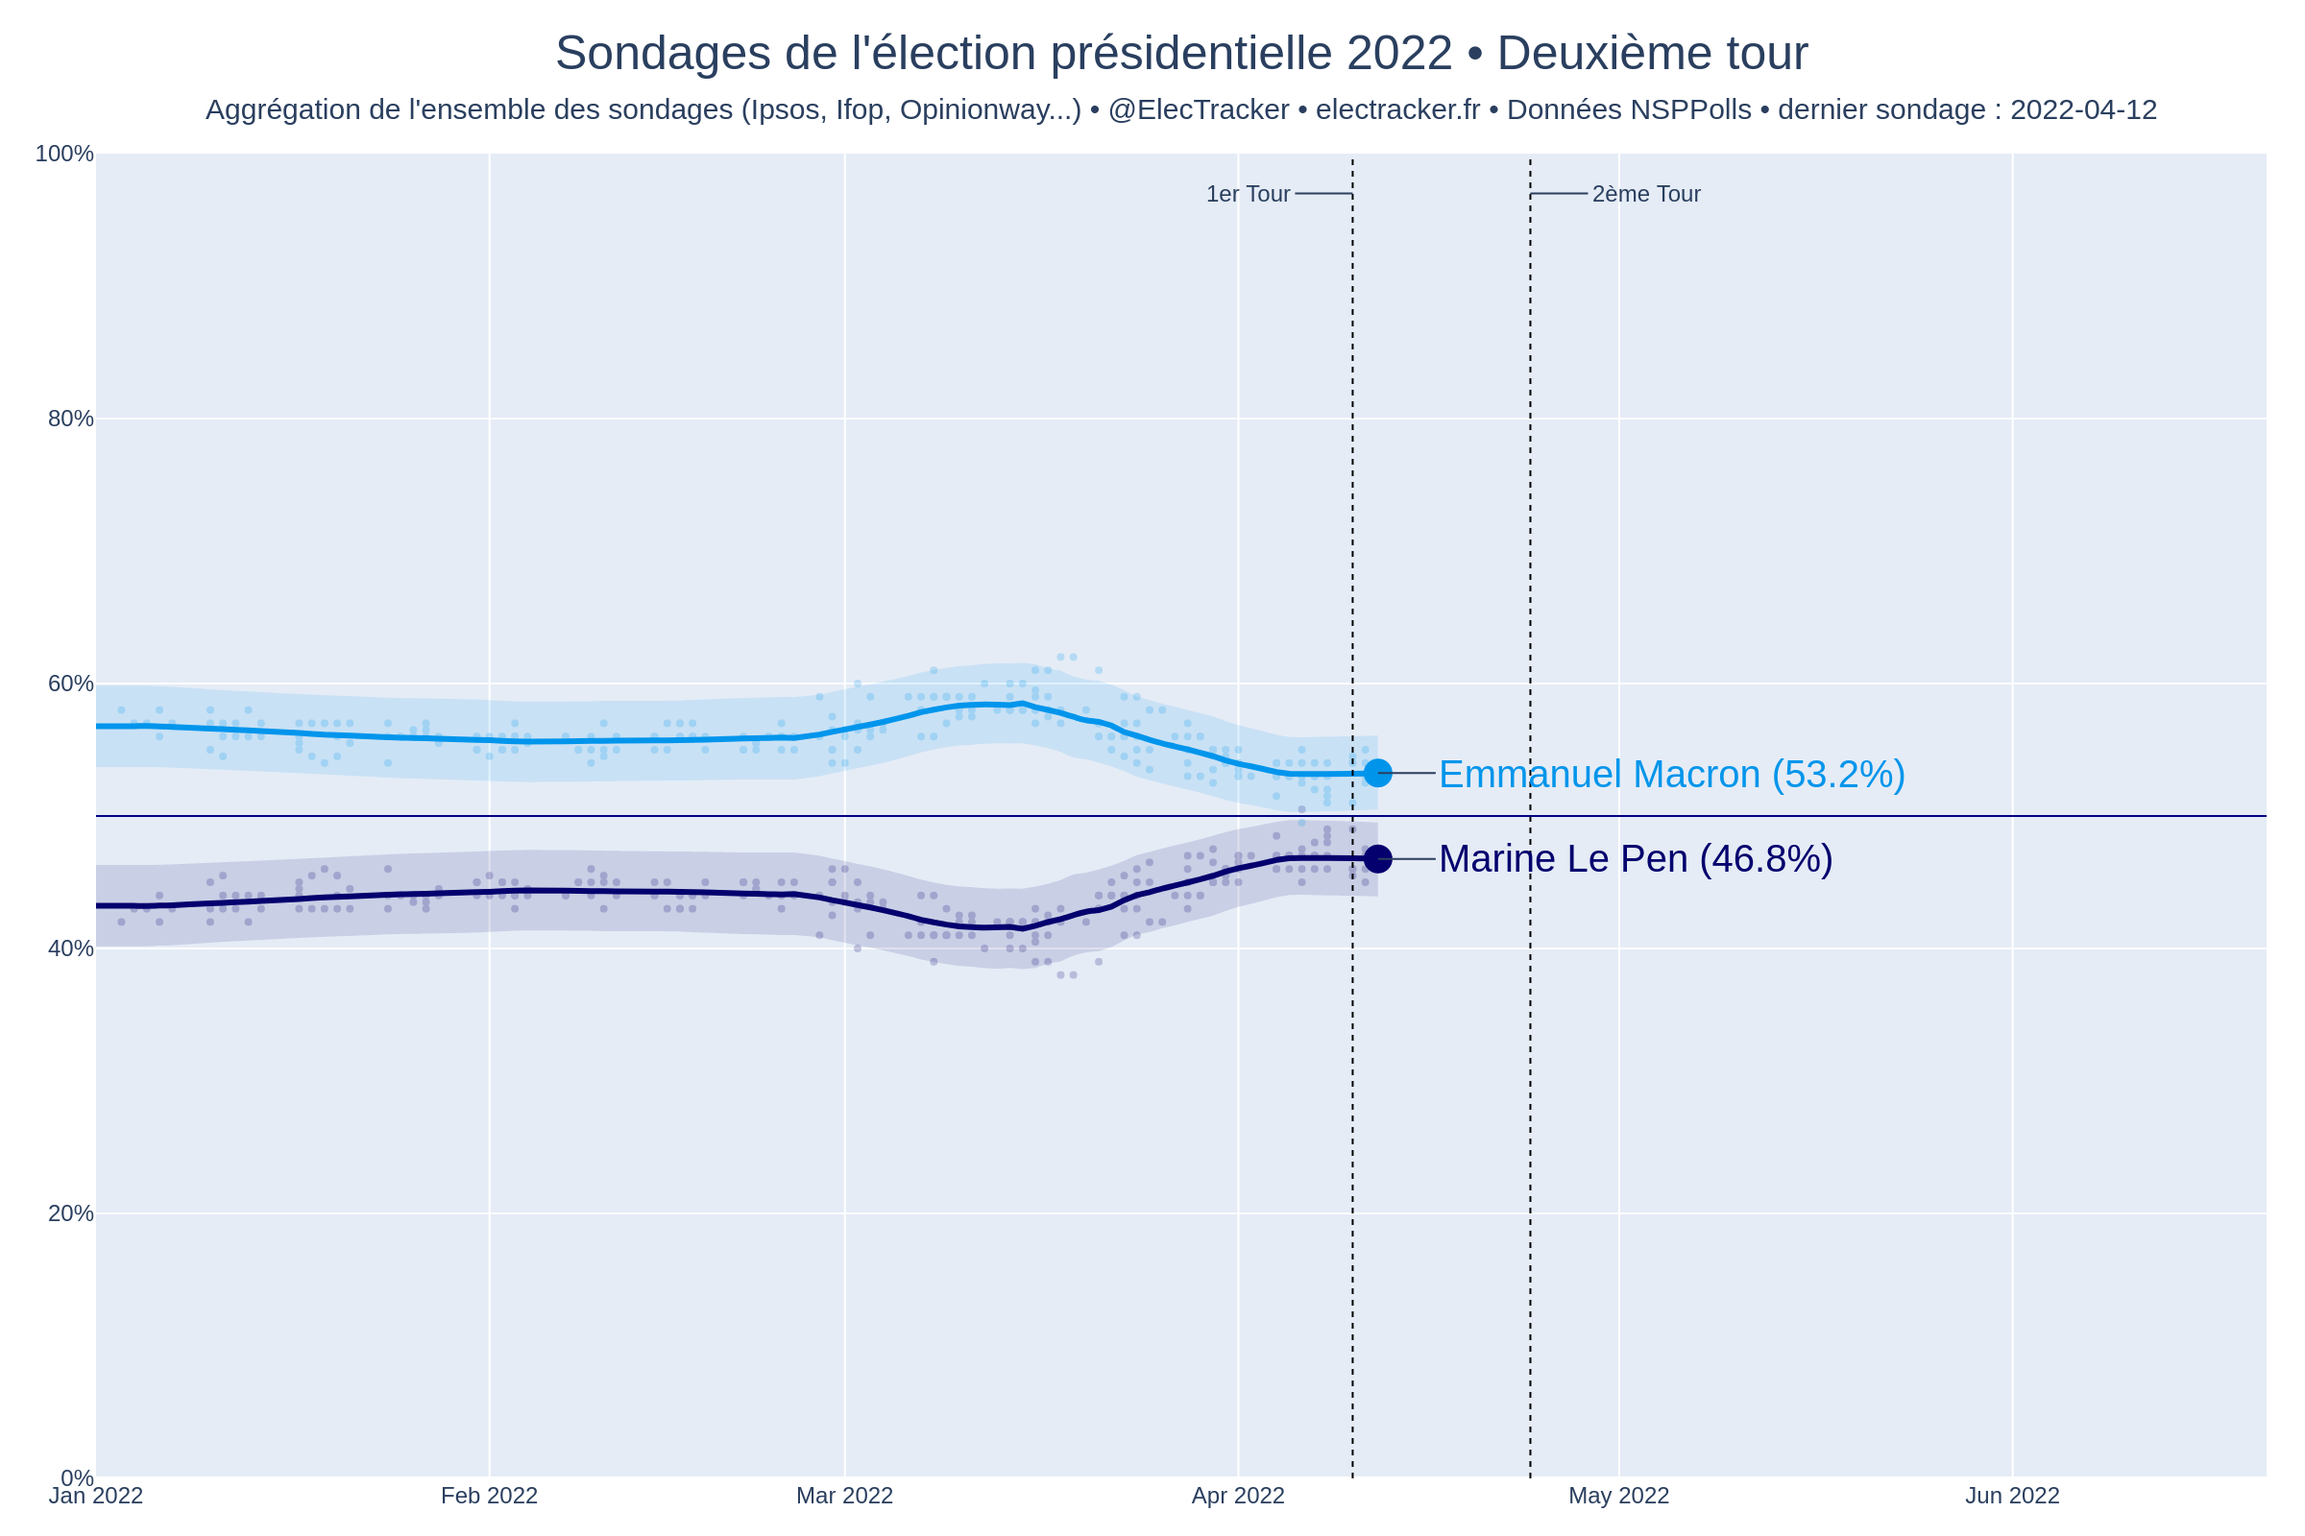
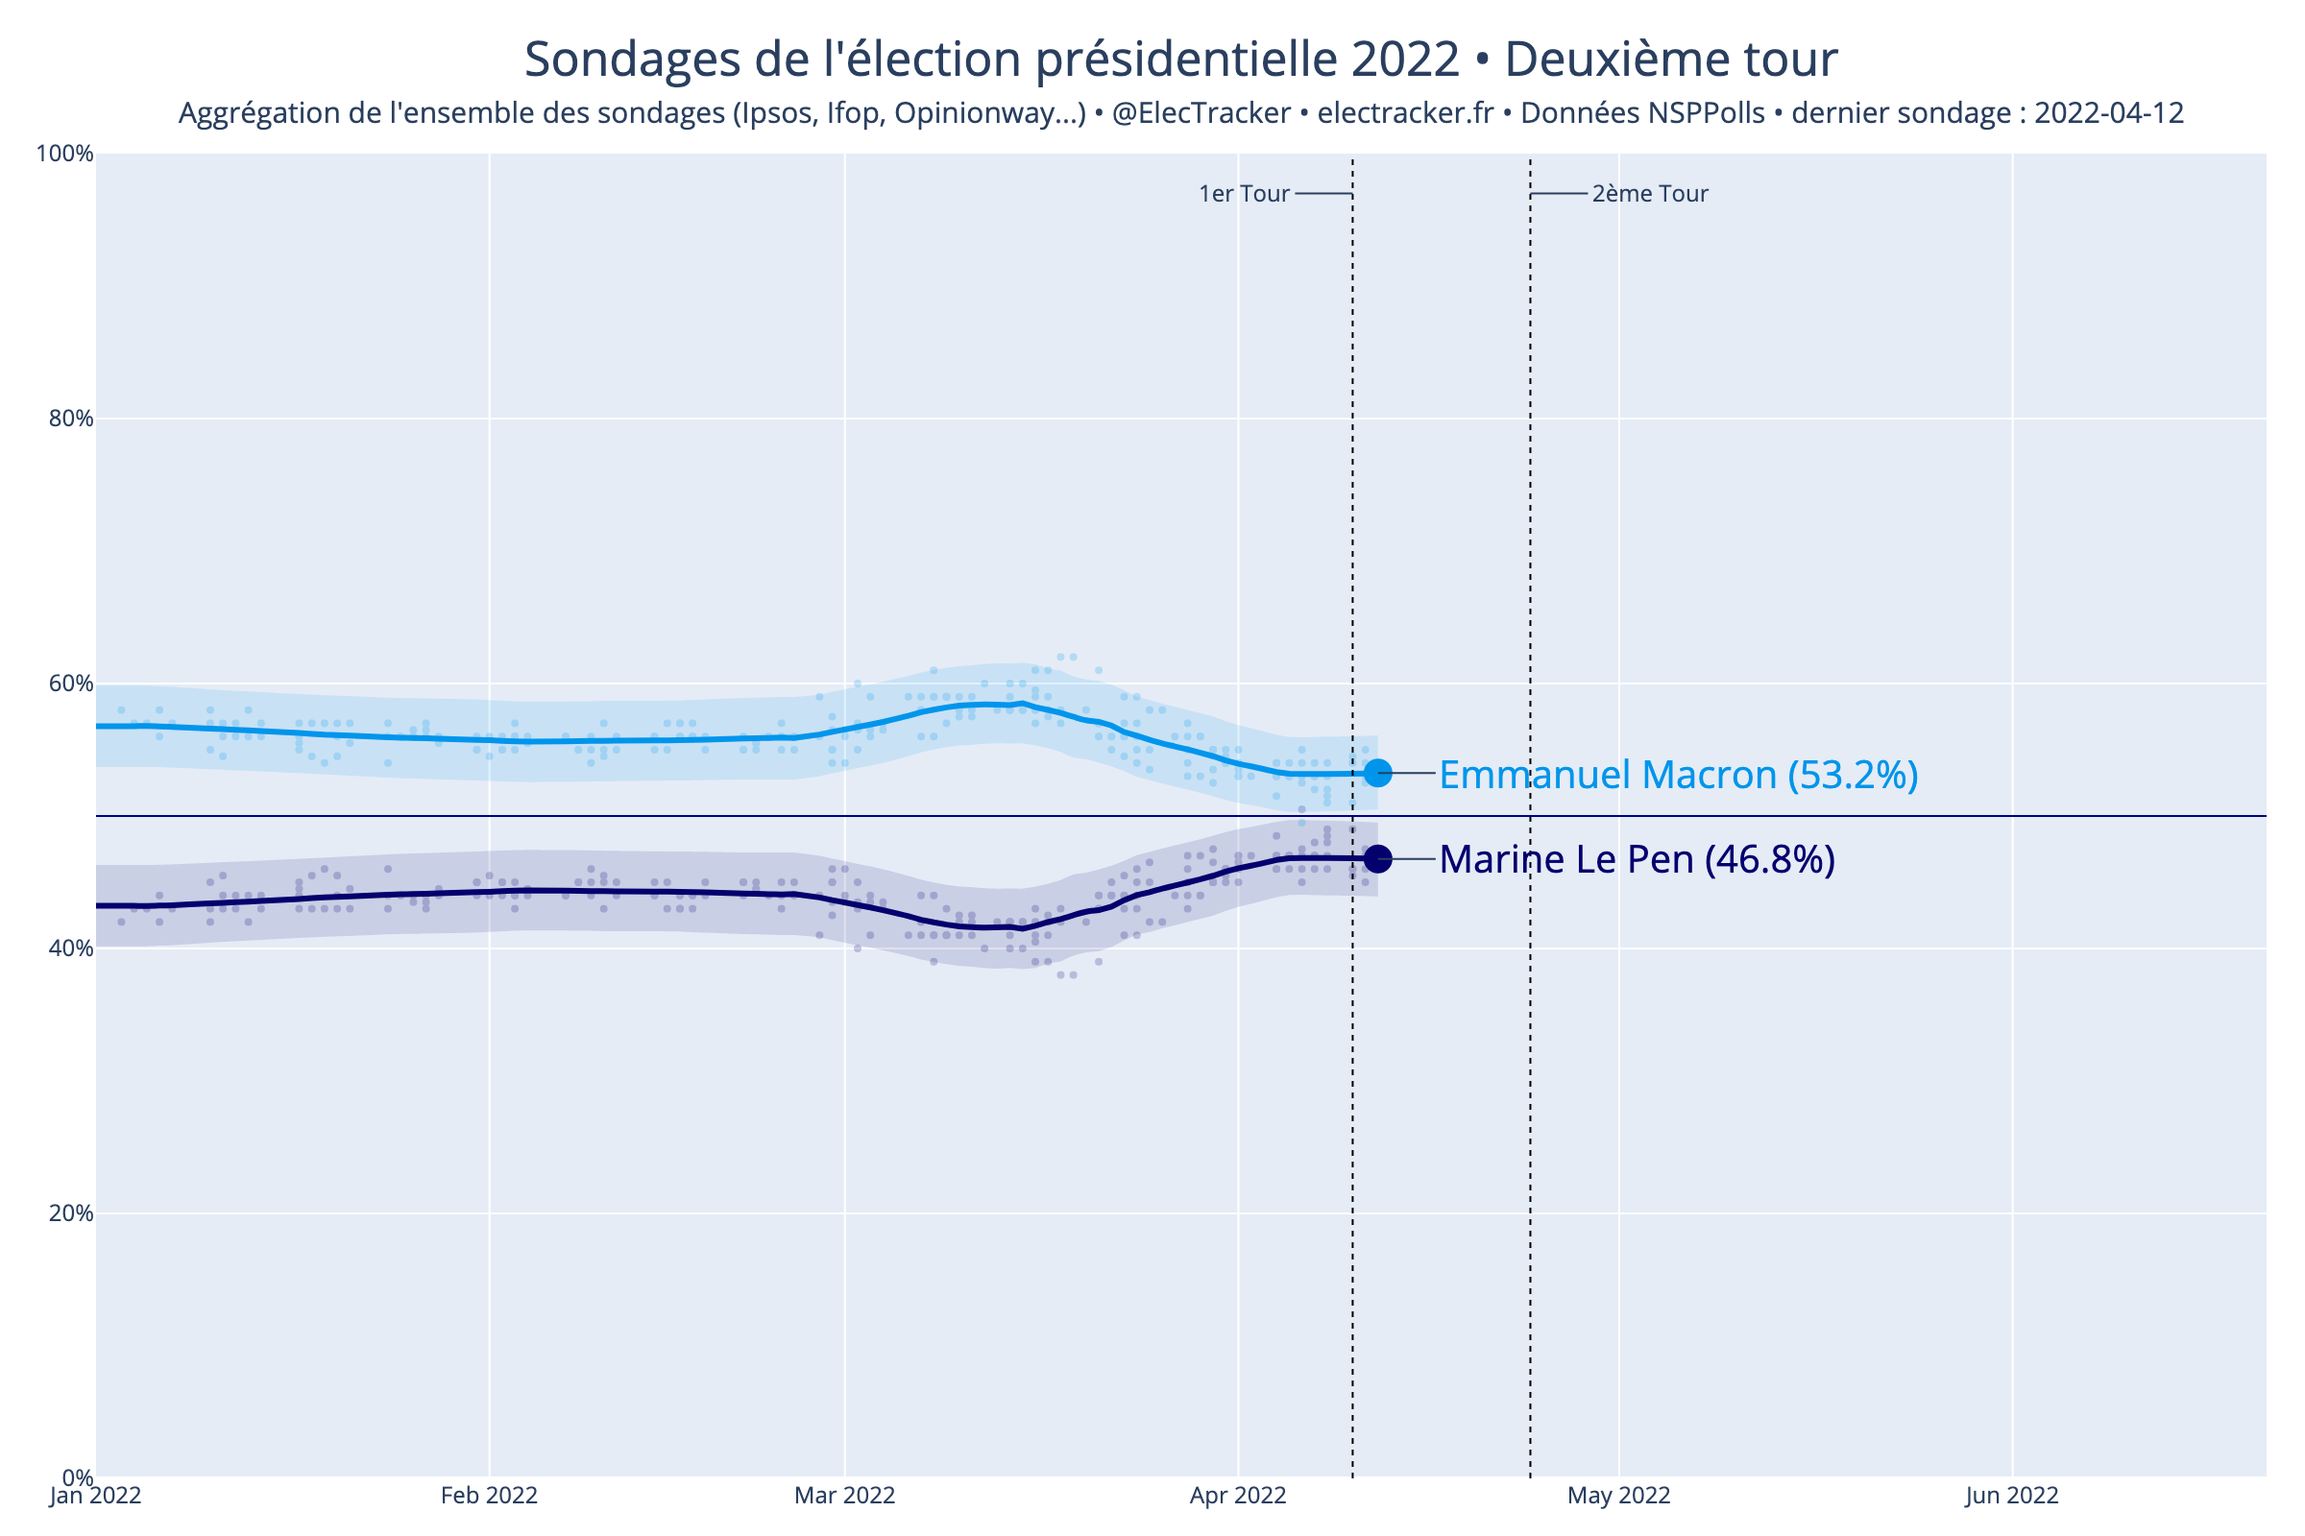
reports

diff --git a/src/graphique_reports.py b/src/graphique_reports.py
@@ -1,0 +1,227 @@
+import os
+from plotly import graph_objects as go
+import json
+import numpy as np
+from datetime import datetime, timedelta
+
+
+class Graphique():
+
+    def __init__(self):
+        with open('data/output/intentionsCandidatsLoessReportsVoix.json', 'r') as file:
+            self.donnees_json = json.load(file)
+
+    def switch_hypothese(self, hypothese: str):
+        self.candidats = []
+        self.intentions = []
+        self.donnees = self.donnees_json["hypotheses"][hypothese]
+        for idx, choix_T2 in enumerate(self.donnees["candidats"]):
+            self.intentions += [round(self.donnees["candidats"][choix_T2]["intentions"]["valeur"][-1], 1)]
+            self.candidats += [choix_T2]
+
+        idx_sorted = np.argsort(self.intentions )
+        self.intentions = np.array(self.intentions)[idx_sorted]
+        self.candidats = np.array(self.candidats)[idx_sorted]
+
+    def hex_to_rgb(self, value):
+        value = value.lstrip('#')
+        lv = len(value)
+        return tuple(int(value[i:i + lv // 3], 16) for i in range(0, lv, lv // 3))
+        
+    def plot(self, title_suffix="", candidat_T1="", couleur_candidat_T1="black"):
+        fig = go.Figure()
+        annotations = []
+
+        date_max_graphique = datetime.strptime(max(self.donnees["candidats"][self.candidats[0]]["intentions"]["fin_enquete"]), "%Y-%m-%d")
+        temps_max_graphique = date_max_graphique + timedelta(days=15)
+
+        for candidat in self.candidats:
+            y = self.donnees["candidats"][candidat]["intentions_loess"]["valeur"]
+            color = self.donnees["candidats"][candidat]["couleur"]
+
+            fig.add_trace(
+                go.Scatter(
+                    x=self.donnees["candidats"][candidat]["intentions_loess"]["fin_enquete"],
+                    y=y,
+                    name = candidat,
+                    line = {"color": color, "width": 3, "shape": 'spline', "dash": "dot"},
+                    legendgroup = candidat,
+                    mode = 'lines',
+                )
+            )
+
+            fig.add_trace(
+                go.Scatter(
+                    x = self.donnees["candidats"][candidat]["intentions"]["fin_enquete"],
+                    y = self.donnees["candidats"][candidat]["intentions"]["valeur"],
+                    name = candidat,
+                    marker = {"size": 5, "color": color},
+                    legendgroup = candidat,
+                    mode = 'markers',
+                    opacity = 0.8,
+                )
+            )
+
+            # fig.add_trace(
+            #     go.Scatter(
+            #         x = [self.donnees["candidats"][candidat]["intentions_loess"]["fin_enquete"][-1]],
+            #         y = [y[-1]],
+            #         mode = 'markers+text',
+            #         text = "", #candidat + " (" + str(round(y[-1], 1)) + "%)",
+            #         textfont = {"color": color, "size": 20},
+            #         textposition = 'middle right',
+            #         marker = {"color": color, "size": 8},
+            #         legendgroup = candidat,
+            #         showlegend = False  
+            #     )
+            # )
+            if y[-1]>0.5:
+                annotations += [
+                    {
+                        "x": self.donnees["candidats"][candidat]["intentions"]["fin_enquete"][-1],
+                        "y": y[-1],
+                        "text": candidat + " (" + str(round(y[-1], 2)) + "%)",
+                        "font": {"color": color, "size": 20},
+                        "xanchor": "left",
+                        "yanchor": "middle",
+                        "ax": 30,
+                        "ay": max(0.8, y[-1]),
+                        "yref": "y",
+                        "ayref": "y"
+                    }
+                ]
+
+        for idx in range(0, len(annotations)-1):
+            annotation = annotations[idx] # Macron
+            annotation_prev = annotations[idx+1] # MLP
+            diff = - annotation["ay"] + annotation_prev["ay"]
+            if (diff) < 3:
+                #annotations[-idx-1]["ay"] = 1 #max(1-diff, 0)
+                annotations[idx+1]["ayref"] = "y"
+                annotations[idx+1]["yref"] = "y"
+                annotations[idx+1]["ay"] = annotations[idx+1]["y"] + max(3-diff, 0) #max(1-diff, 0)
+
+
+        fig.update_layout(
+            showlegend = False,
+            margin = {"t": 80, "r": 20, "l": 50, "b": 30},
+            legend = {"orientation": "h"},
+            yaxis = {
+            "ticksuffix": "%",
+            "range": [0, 100]
+            },
+            xaxis = {
+            "range": ["2022-04-09", temps_max_graphique] 
+            },
+            shapes = [
+            {
+                "type": 'line',
+                "x0": "2022-04-10",
+                "y0": 0,
+                "x1": "2022-04-10",
+                "y1": 100,
+                "line":{
+                    "color": 'rgb(0, 0, 0)',
+                    "width": 1,
+                    "dash":'dot'
+                }
+            },
+            {
+                "type": 'line',
+                "x0": "2022-04-24",
+                "y0": 0,
+                "x1": "2022-04-24",
+                "y1": 100,
+                "line":{
+                    "color": 'rgb(0, 0, 0)',
+                    "width": 1,
+                    "dash":'dot'
+                }
+            },
+            {
+                "type": 'line',
+                "x0": "2022-01-01",
+                "y0": 50,
+                "x1": temps_max_graphique,
+                "y1": 50,
+                "line":{
+                    "color": 'rgb(0, 0, 0.5)',
+                    "width": 1,
+                }
+            }
+            ],
+        )
+
+        annotations_other = [
+            {
+                "x": "2022-04-10",
+                "y": 97,
+                "text": "1er Tour",
+                "xanchor": "right",
+                "ax": -30,
+                "ay": 0,
+                "showarrow": True,
+                "arrowsize": 0.8
+            },
+            {
+                "x": "2022-04-24",
+                "y": 97,
+                "text": "2ème Tour",
+                "xanchor": "left",
+                "ax": +30,
+                "ay": 0,
+                "showarrow": True,
+                "arrowsize": 0.8
+            },
+            {
+                "x": 0.5,
+                "y": 1.1,
+                "xref": "paper",
+                "yref": "paper",
+                "text": f"Intention de vote au 2nd tour des électeurs <b>{candidat_T1}</b> du 1er tour",
+                "font": {"size": 25, "color": couleur_candidat_T1},
+                "xanchor": "center",
+                "showarrow": False,
+            },
+            {
+                "x": 0.5,
+                "y": 1.05,
+                "xref": "paper",
+                "yref": "paper",
+                "text": f"Aggrégation de l'ensemble des sondages (Ipsos, Ifop, Opinionway...) • @ElecTracker • electracker.fr • Données NSPPolls • dernier sondage : {self.donnees['candidats'][candidat]['intentions']['fin_enquete'][-1]}",
+                "font": {"size": 15},
+                "xanchor": "center",
+                "showarrow": False,
+            }
+            ]
+
+        for annotation in annotations:
+            fig.add_annotation(annotation)
+
+        for annotation in annotations_other:
+            fig.add_annotation(annotation)
+
+        fig.write_image(f"img/plot_presidentielles_deuxieme_tour_reports{title_suffix}.png", width=1200, height=800, scale=2)
+
+graphique = Graphique()
+
+graphique.switch_hypothese("Jean-Luc Mélenchon")
+graphique.plot(title_suffix="_melenchon", candidat_T1="Jean-Luc Mélenchon", couleur_candidat_T1=graphique.donnees["couleur"])
+
+graphique.switch_hypothese("Yannick Jadot")
+graphique.plot(title_suffix="_jadot", candidat_T1="Yannick Jadot", couleur_candidat_T1=graphique.donnees["couleur"])
+
+graphique.switch_hypothese("Valérie Pécresse")
+graphique.plot(title_suffix="_pecresse", candidat_T1="Valérie Pécresse", couleur_candidat_T1=graphique.donnees["couleur"])
+
+graphique.switch_hypothese("Eric Zemmour")
+graphique.plot(title_suffix="_zemmour", candidat_T1="Éric Zemmour", couleur_candidat_T1=graphique.donnees["couleur"])
+
+graphique.switch_hypothese("Marine Le Pen")
+graphique.plot(title_suffix="_lepen", candidat_T1="Marine Le Pen", couleur_candidat_T1=graphique.donnees["couleur"])
+
+graphique.switch_hypothese("Emmanuel Macron")
+graphique.plot(title_suffix="_macron", candidat_T1="Emmanuel Macron", couleur_candidat_T1=graphique.donnees["couleur"])
+
+#graphique.switch_hypothese("Hypothèse Mélenchon / Le Pen")
+#graphique.plot(title_suffix="_macron_lepen")

diff --git a/src/elections_presidentielles_loess_reports_voix.py b/src/elections_presidentielles_loess_reports_voix.py
@@ -23,19 +23,20 @@ CANDIDATS = {"Marine Le Pen": {"couleur": "#04006e"},
             "Nathalie Arthaud": {"couleur": "#8f0007"},
             "Jean Lassalle": {"couleur": "#c96800"},
             "Philippe Poutou": {"couleur": "#82001a"},
-            "Nicolas Dupont-Aignan": {"couleur": "#3a84c4"}            
+            "Nicolas Dupont-Aignan": {"couleur": "#3a84c4"},
+            "Abstention": {"couleur": "grey"}         
             }
 
 dict_candidats = {}
 
-for hypothèse in df.hypothese.unique():
+for candidat_T1 in df.candidat_T1.unique():
 
-  df_temp_hypothese = df[df["hypothese"] == hypothèse]
-  dict_hypothèses = {}
+  df_candidat_T1 = df[df["candidat_T1"] == candidat_T1]
+  dict_candidats_T1 = {}
 
-  for candidat in df_temp_hypothese.candidat_T1.unique():
-    print(candidat)
-    df_temp = df_temp_hypothese[df_temp_hypothese["candidat_T1"] == candidat]
+  for choix_T2 in df_candidat_T1.choix_T2.unique():
+    print(f"{candidat_T1} -> {choix_T2}")
+    df_temp = df_candidat_T1[df_candidat_T1["choix_T2"] == choix_T2]
   
     fin_enquete_ts = df_temp["fin_enquete"].astype(np.int64) // 10 ** 9
 
@@ -49,29 +50,29 @@ for hypothèse in df.hypothese.unique():
                                   npoints=None, rotate=False, sigy=None)
 
         xout_dt = [datetime.datetime.fromtimestamp(date).strftime('%Y-%m-%d') for date in xout]
-        fin_enquete_dt = [date.strftime('%Y-%m-%d') for date in df["fin_enquete"].to_list()]
+        fin_enquete_dt = [date.strftime('%Y-%m-%d') for date in df_temp["fin_enquete"].to_list()]
 
-        dict_hypothèses[candidat] = {"intentions_loess": {"fin_enquete": xout_dt, "valeur": list(yout.astype(float)), "erreur_inf": list(yout_erreur_inf.astype(float)), "erreur_sup": list(yout_erreur_sup.astype(float))},
+        dict_candidats_T1[choix_T2] = {"intentions_loess": {"fin_enquete": xout_dt, "valeur": list(yout.astype(float)), "erreur_inf": list(yout_erreur_inf.astype(float)), "erreur_sup": list(yout_erreur_sup.astype(float))},
                                     "intentions": {"fin_enquete": fin_enquete_dt, "valeur": df_temp.part.to_list()},
                                     "derniers_sondages": [],
-                                    "couleur": CANDIDATS[candidat]["couleur"]}
+                                    "couleur": CANDIDATS[choix_T2]["couleur"]}
 
     try:
       calculer_sondages_candidat()
     except Exception as e:
       try:
-        calculer_sondages_candidat(frac=0.5)
+        calculer_sondages_candidat(frac=1)
       except Exception as e:
-        fin_enquete_dt = [date.strftime('%Y-%m-%d') for date in df["fin_enquete"].to_list()]
-        dict_hypothèses[candidat] = {"intentions_loess": {"fin_enquete": [], "valeur": [], "erreur_inf": [], "erreur_sup": []},
+        fin_enquete_dt = [date.strftime('%Y-%m-%d') for date in df_temp["fin_enquete"].to_list()]
+        dict_candidats_T1[choix_T2] = {"intentions_loess": {"fin_enquete": [], "valeur": [], "erreur_inf": [], "erreur_sup": []},
                                     "intentions": {"fin_enquete": fin_enquete_dt, "valeur": df_temp.part.to_list()},
                                     "derniers_sondages": [],
-                                    "couleur": CANDIDATS[candidat]["couleur"]}
+                                    "couleur": CANDIDATS[choix_T2]["couleur"]}
         #print("== error ==")
         #print(e)
         #print("==   ==")
 
-  dict_candidats[hypothèse] = {"candidats": dict_hypothèses}
+  dict_candidats[candidat_T1] = {"candidats": dict_candidats_T1, "couleur": CANDIDATS[candidat_T1]["couleur"]}
 
 dict_donnees = {"dernier_sondage": df["fin_enquete"].max().strftime('%Y-%m-%d'), 
                 "mise_a_jour": datetime.datetime.now().strftime(format="%Y-%m-%d %H:%M"),

diff --git a/src/elections_presidentielles_moyenne_mobile_intentions_loess_second_tour.py b/src/elections_presidentielles_moyenne_mobile_intentions_loess_second_tour.py
@@ -24,7 +24,6 @@ dict_candidats = {}
 derniere_intention = pd.DataFrame() #columns=["candidat", "intentions"])
 
 df["hypothese"] = df["hypothese"].fillna("hypothèse confirmée")
-print(df)
 
 for hypothèse in HYPOTHÈSES:
 
